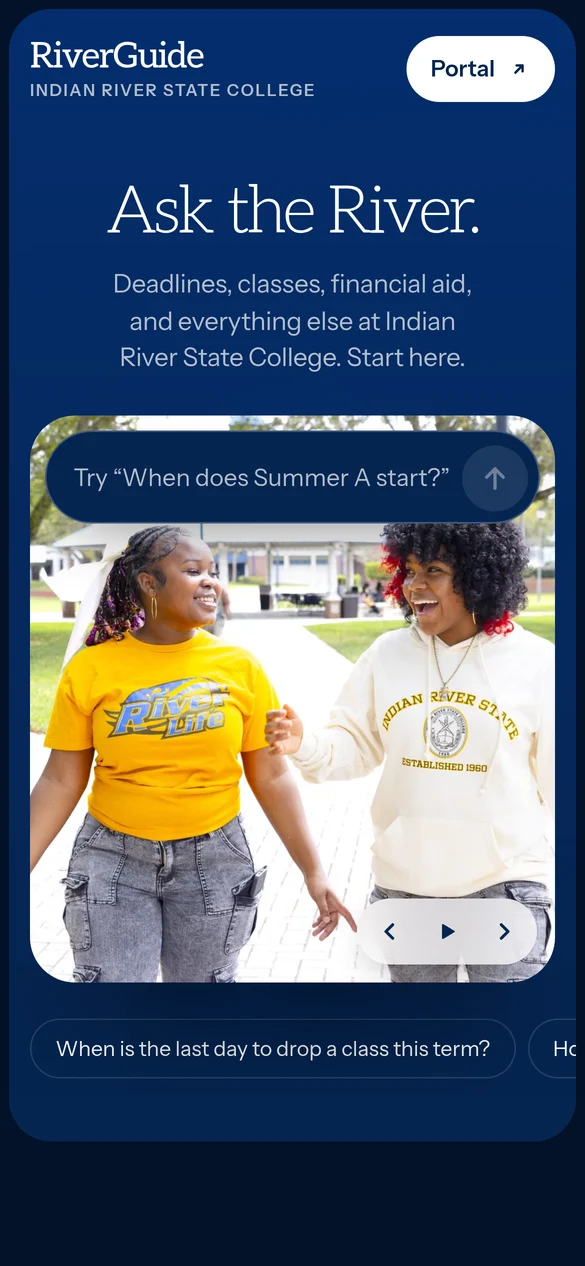
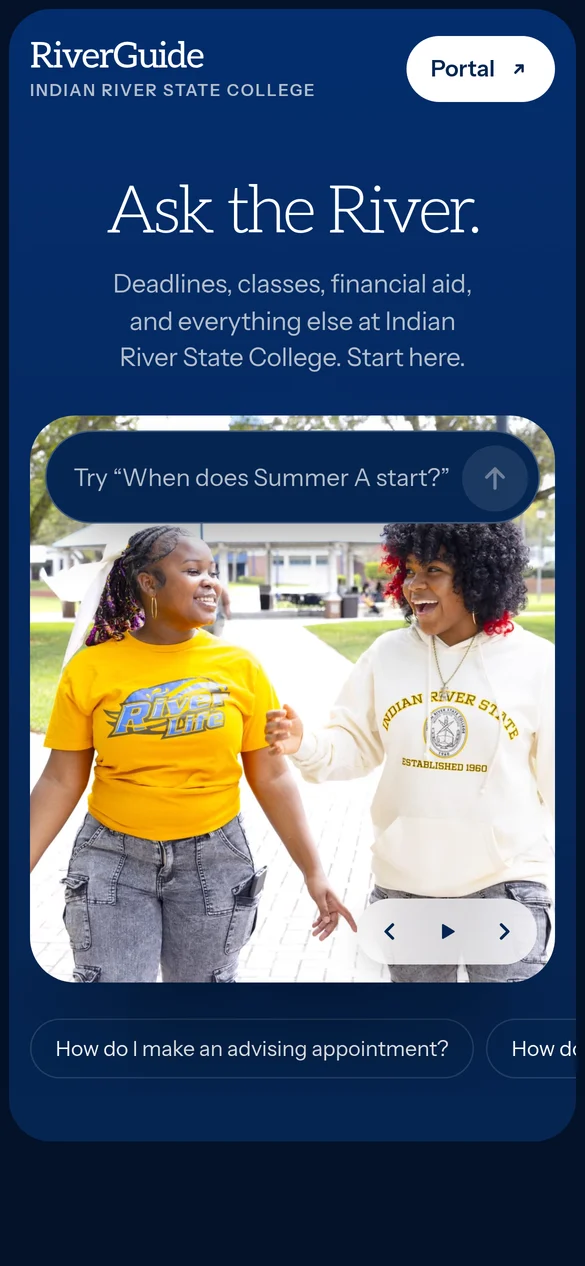
docs: screenshots and typeahead count for the new starter chips

Changed region(s): [[0.0923, 0.8009, 0.8308, 0.8318], [0.8615, 0.8009, 0.9846, 0.8318]]

diff --git a/README.md b/README.md
@@ -41,7 +41,7 @@ The first version compiled the College's pages into an LLM wiki plus eleven fact
   <tr>
     <td width="50%" valign="top">
       <img src="docs/screenshots/typeahead.webp" alt="The question box with 'financial ai' typed and three suggested questions about financial aid">
-      <p><b>Typeahead with no network calls.</b> 3,691 questions from the College's own pages (FAQ questions and three per catalog course), matched in the browser, typos forgiven. Nothing typed is sent.</p>
+      <p><b>Typeahead with no network calls.</b> 3,696 questions, led by the 19 that students asked RiverGuide 1 most, then the College's own FAQ questions and three per catalog course. Matched in the browser, typos forgiven. Nothing typed is sent.</p>
     </td>
     <td width="50%" valign="top">
       <img src="docs/screenshots/privacy.webp" alt="A message with a name, student ID, and street address highlighted in yellow and a notice asking the student to remove them">
